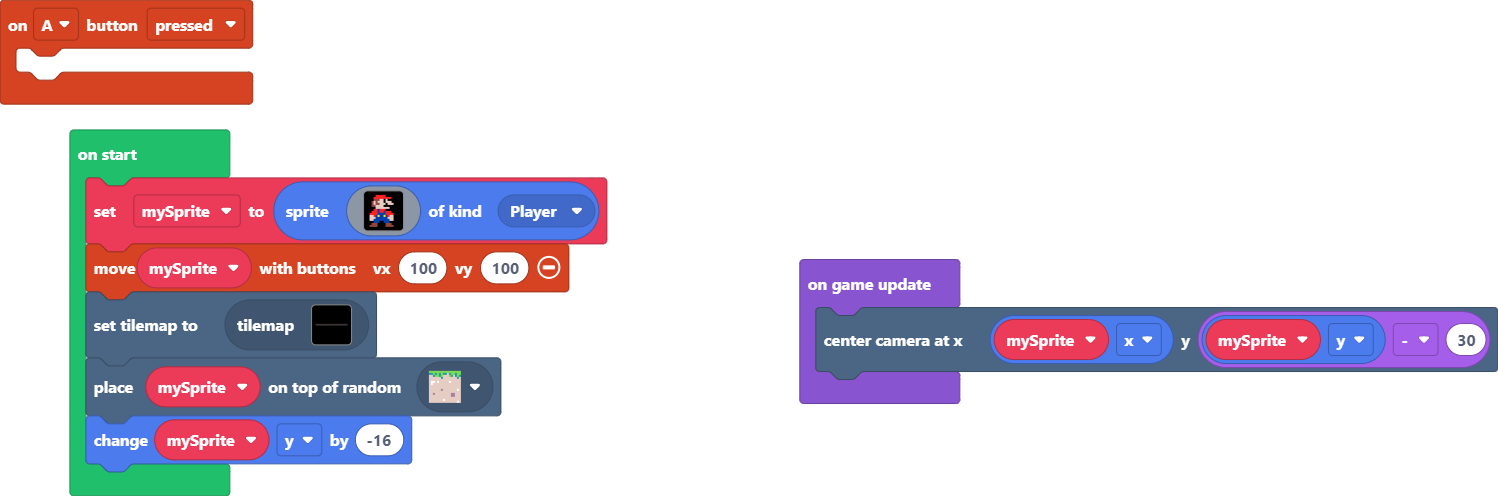
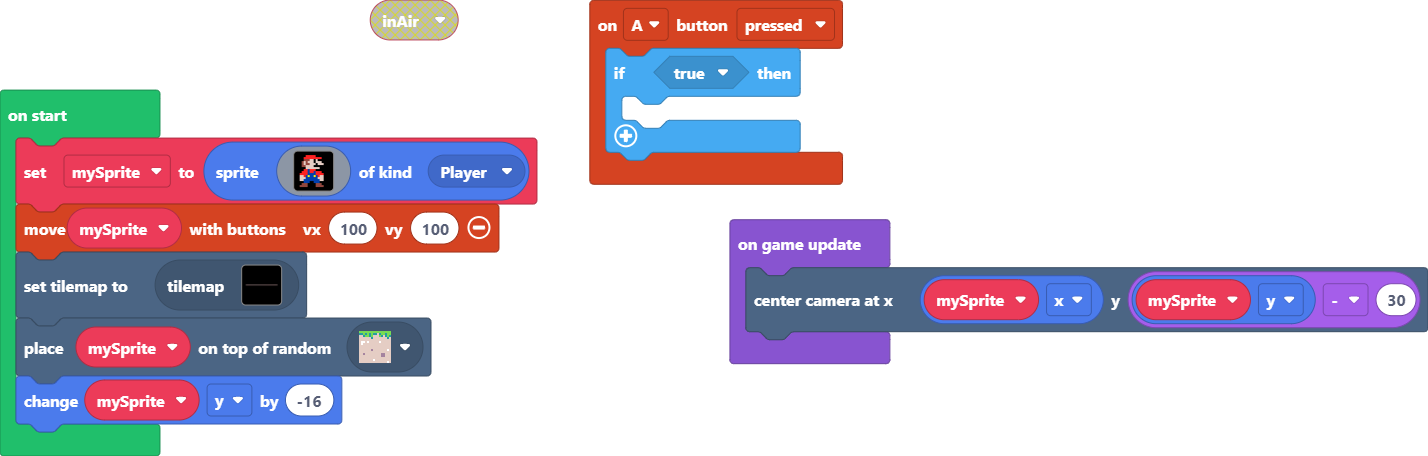
Update main.blocks, main.ts

diff --git a/main.ts b/main.ts
@@ -1,5 +1,7 @@
 controller.A.onEvent(ControllerButtonEvent.Pressed, function () {
-	
+    if (true) {
+    	
+    }
 })
 let mySprite = sprites.create(img`
     . . . . 2 2 2 2 2 . . . . . . . 
